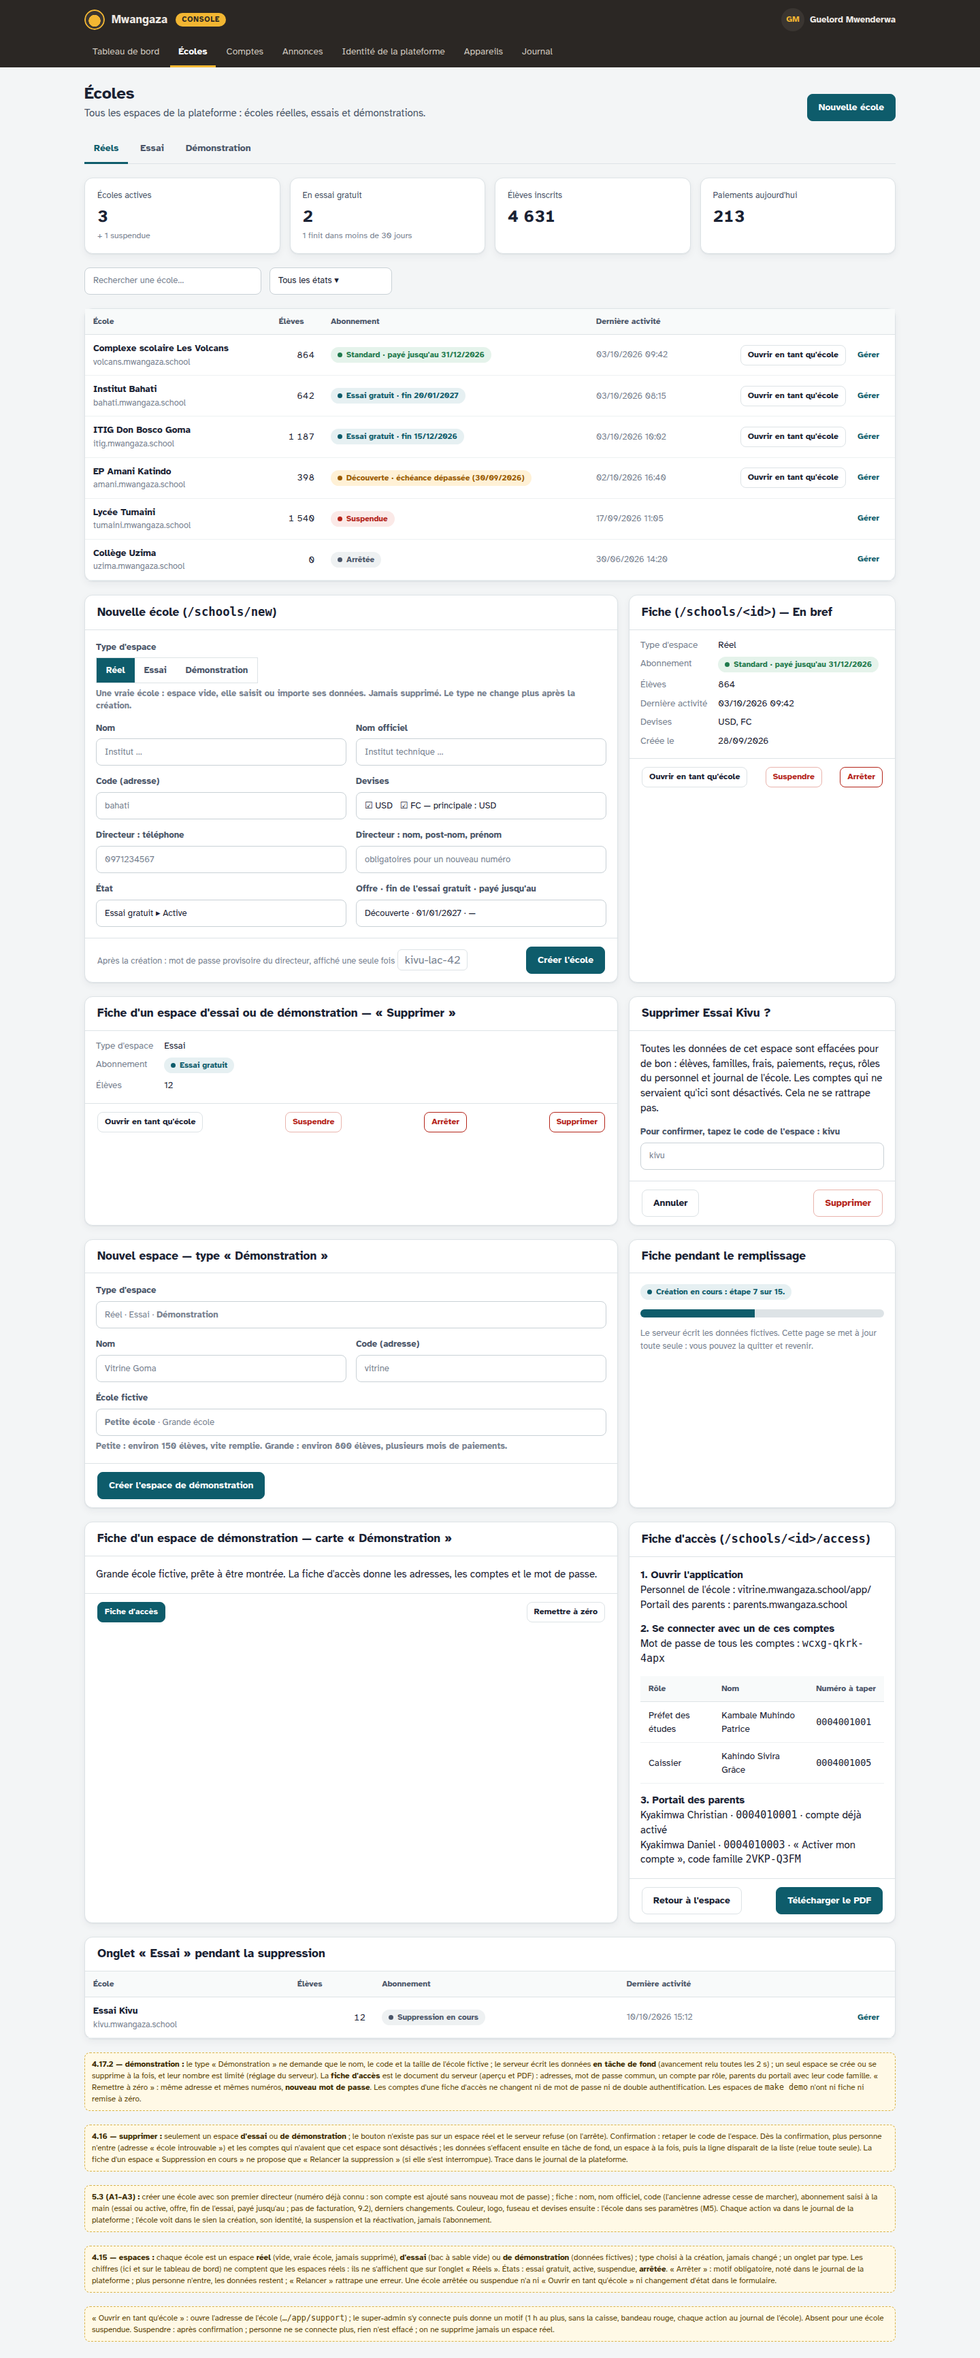
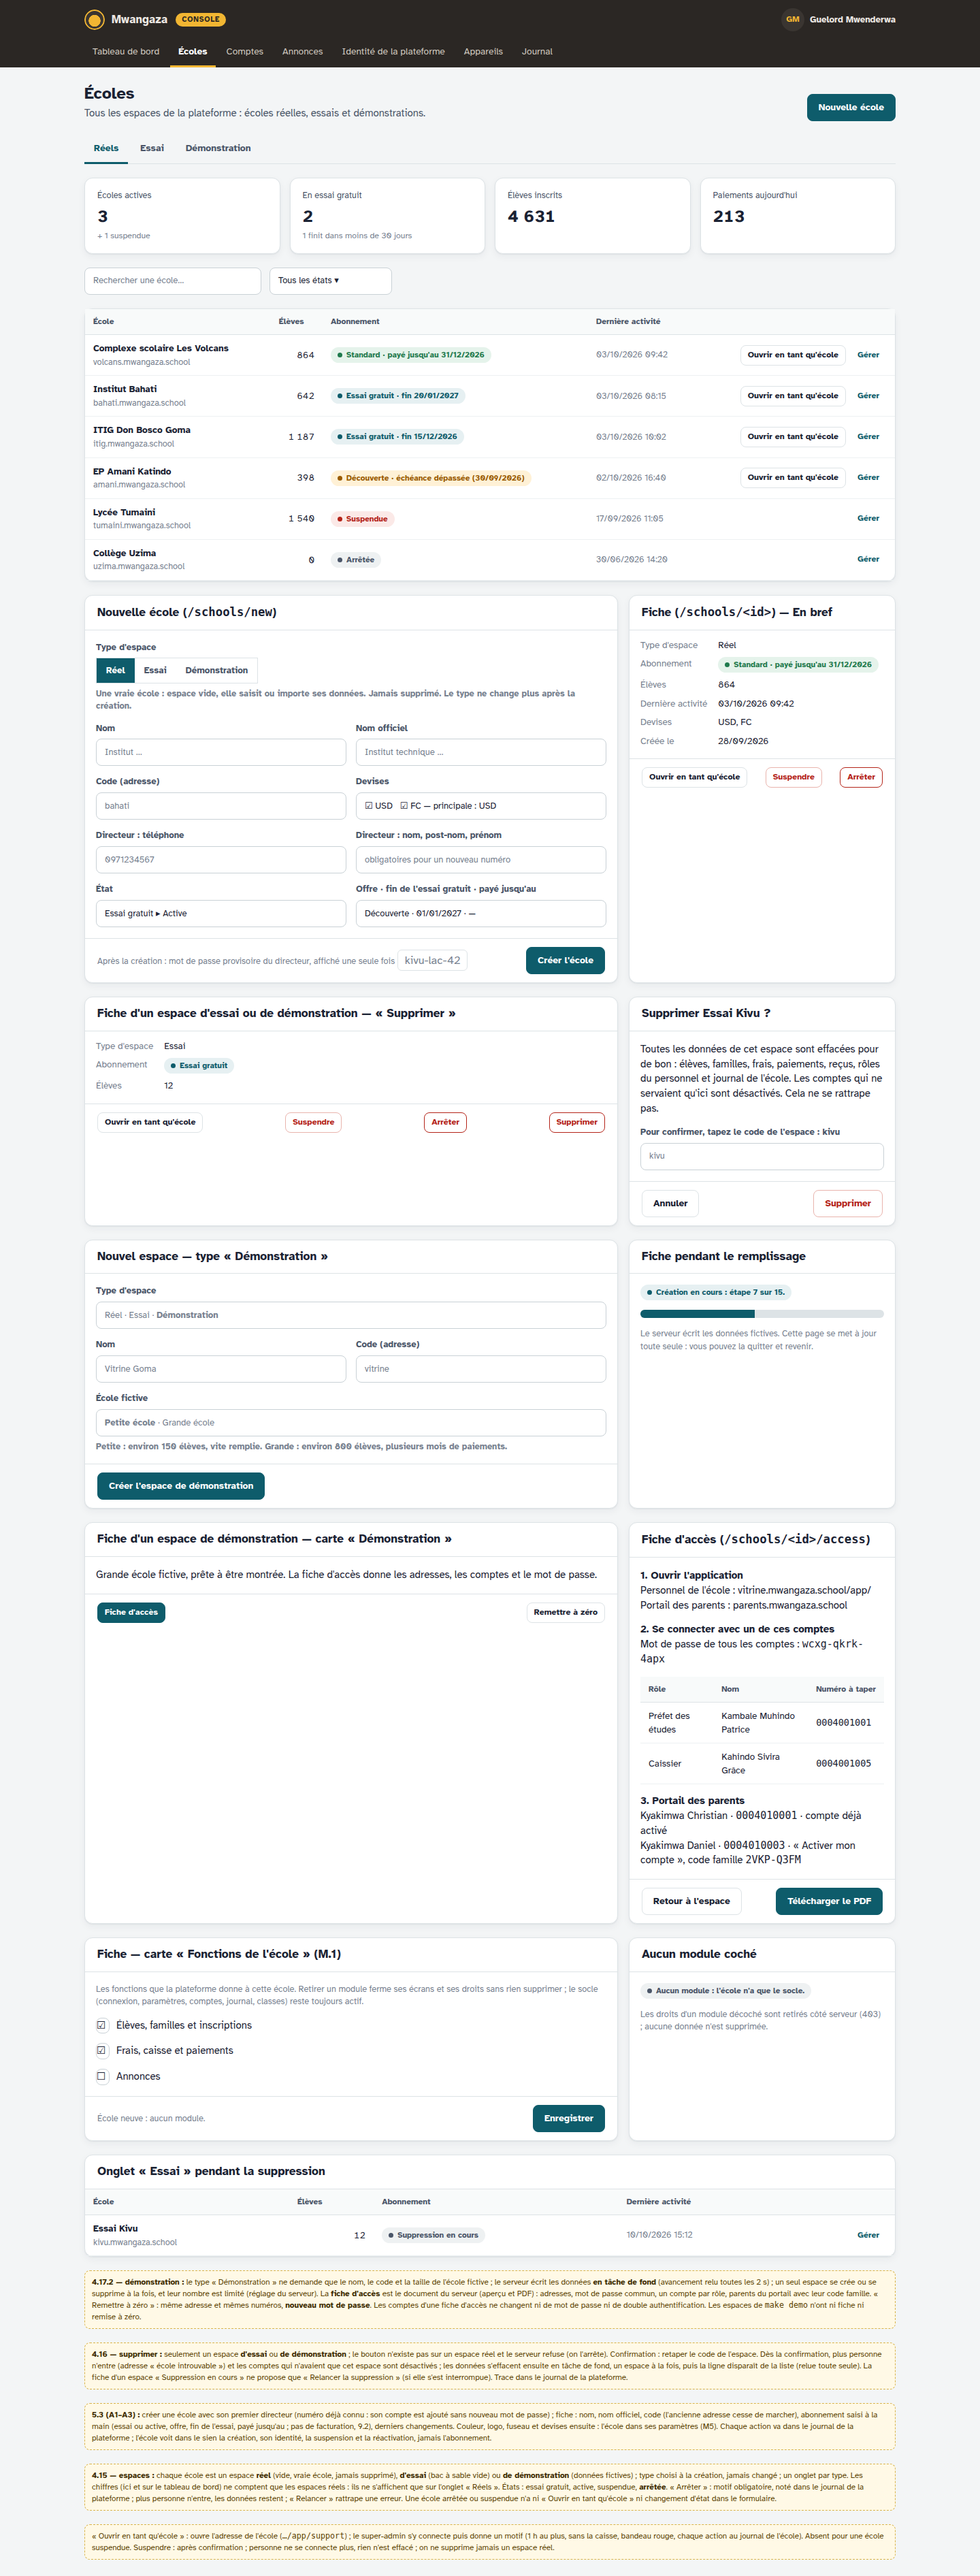
docs(maquettes): carte « Fonctions de l'école » dessinée, règle maquette mobile et bureau dans la skill ecran

diff --git a/maquettes/console/ecoles.html b/maquettes/console/ecoles.html
@@ -122,6 +122,19 @@ dl.brief{display:grid;grid-template-columns:auto 1fr;gap:8px 16px;padding:12px 1
       </div>
       <div class="ft"><a class="btn" href="#">Retour à l'espace</a><a class="btn primary" href="#">Télécharger le PDF</a></div></div>
   </div>
+  <div class="two">
+    <div class="card"><div class="hd"><h2>Fiche — carte « Fonctions de l'école » (M.1)</h2></div>
+      <div class="form" style="grid-template-columns:1fr">
+        <p style="margin:0" class="small muted">Les fonctions que la plateforme donne à cette école. Retirer un module ferme ses écrans et ses droits sans rien supprimer ; le socle (connexion, paramètres, comptes, journal, classes) reste toujours actif.</p>
+        <label class="row" style="gap:10px;align-items:center"><span class="inp" style="width:20px;min-height:20px;padding:0;text-align:center">☑</span><span>Élèves, familles et inscriptions</span></label>
+        <label class="row" style="gap:10px;align-items:center"><span class="inp" style="width:20px;min-height:20px;padding:0;text-align:center">☑</span><span>Frais, caisse et paiements</span></label>
+        <label class="row" style="gap:10px;align-items:center"><span class="inp" style="width:20px;min-height:20px;padding:0;text-align:center">☐</span><span>Annonces</span></label>
+      </div>
+      <div class="ft"><span class="small muted">École neuve : aucun module.</span><a class="btn primary" href="#">Enregistrer</a></div></div>
+    <div class="card"><div class="hd"><h2>Aucun module coché</h2></div>
+      <div class="form" style="grid-template-columns:1fr"><p style="margin:0"><span class="pill gray">Aucun module : l'école n'a que le socle.</span></p>
+        <p class="small muted" style="margin:0">Les droits d'un module décoché sont retirés côté serveur (403) ; aucune donnée n'est supprimée.</p></div></div>
+  </div>
   <div class="card"><div class="hd"><h2>Onglet « Essai » pendant la suppression</h2></div>
     <div class="tblwrap"><table class="tbl"><thead><tr><th>École</th><th class="num">Élèves</th><th>Abonnement</th><th>Dernière activité</th><th></th></tr></thead><tbody>
       <tr><td><b>Essai Kivu</b><br><span class="small muted">kivu.mwangaza.school</span></td><td class="num">12</td><td><span class="pill gray">Suppression en cours</span></td><td class="small muted">10/10/2026 15:12</td><td><div class="row" style="gap:6px;justify-content:flex-end"><a class="btn sm ghost" href="#">Gérer</a></div></td></tr>

diff --git a/maquettes/README.md b/maquettes/README.md
@@ -118,7 +118,7 @@ Pas de menu latéral comme la Gestion : barre du haut en basalte (marque, pastil
 |---|---|---|---|---|
 | Tableau de bord | `console/tableau-de-bord.html` | V1.1 | 5.2 | dessinée par Claude en 5.2.1 (à valider) ; codée en 5.2.1 (menu réduit au tableau de bord, la santé du serveur en pastille dans l'en-tête de la page au lieu de la barre du haut) |
 | Identité de la plateforme | `console/identite-plateforme.html` | V1.1 | 5.2.2 | dessinée par Claude en 5.2.2 (à valider) ; codée en 5.2.2, sans écart (sur téléphone, l'aperçu et les modifications passent sous le formulaire) |
-| Écoles | `console/ecoles.html` | V1.1 | 5.3 | dessinée par Claude en 5.3 d'après `gestion/superadmin-ecoles` (à valider) ; codée en 5.3 en trois écrans (liste, `/schools/new`, fiche `/schools/<id>`) ; « Créer l'école » donne un mot de passe provisoire affiché une seule fois au lieu d'un lien d'activation (pas de SMS en V1) ; mise à jour en 4.15 (à valider) : onglets Réels · Essai · Démonstration, type d'espace à la création et sur la fiche, état « Arrêtée », « Arrêter » avec motif et « Relancer », filtre par état en liste déroulante (cinq états ne tiennent pas en boutons sur téléphone), chiffres sur l'onglet « Réels » seulement ; mise à jour en 4.16 (à valider) : « Supprimer » sur la fiche d'un espace d'essai ou de démonstration, confirmation en retapant le code, état « Suppression en cours » ; complétée en 4.17.2 (à valider) : formulaire court du type « Démonstration », avancement du remplissage, carte « Démonstration » (fiche d'accès, remettre à zéro) et fiche d'accès `/schools/<id>/access` — codées sans écart ; la fiche d'accès est le document du serveur montré dans la page |
+| Écoles | `console/ecoles.html` | V1.1 | 5.3 | dessinée par Claude en 5.3 d'après `gestion/superadmin-ecoles` (à valider) ; carte « Fonctions de l'école » (modules, M.1) dessinée après coup le 2026-10-13 ; codée en 5.3 en trois écrans (liste, `/schools/new`, fiche `/schools/<id>`) ; « Créer l'école » donne un mot de passe provisoire affiché une seule fois au lieu d'un lien d'activation (pas de SMS en V1) ; mise à jour en 4.15 (à valider) : onglets Réels · Essai · Démonstration, type d'espace à la création et sur la fiche, état « Arrêtée », « Arrêter » avec motif et « Relancer », filtre par état en liste déroulante (cinq états ne tiennent pas en boutons sur téléphone), chiffres sur l'onglet « Réels » seulement ; mise à jour en 4.16 (à valider) : « Supprimer » sur la fiche d'un espace d'essai ou de démonstration, confirmation en retapant le code, état « Suppression en cours » ; complétée en 4.17.2 (à valider) : formulaire court du type « Démonstration », avancement du remplissage, carte « Démonstration » (fiche d'accès, remettre à zéro) et fiche d'accès `/schools/<id>/access` — codées sans écart ; la fiche d'accès est le document du serveur montré dans la page |
 | Comptes | `console/comptes.html` | V1.1 | 5.4.1 | dessinée par Claude en 5.4.1 d'après `console/ecoles` (à valider) ; codée en 5.4.1 en deux écrans (liste `/accounts`, fiche `/accounts/<id>`) ; les familles du portail ont leur propre carte au lieu de partager celle des écoles |
 | Annonces aux écoles (et bandeau, liste dans la Gestion) | `console/annonces.html` | V1.1 | 5.4.3 | dessinée par Claude en 5.4.3 d'après `gestion/annonces` (à valider) ; codée en 5.4.3 : console `/announcements`, Gestion bandeau en haut du contenu et liste `/app/platform-news` (lien en bas du menu) ; pas de bouton « Aperçu » dans la console (le bandeau de la Gestion reprend le titre et la première ligne) ; choix des écoles par une recherche au lieu d'une liste |
 | Appareils | `console/appareils.html` | V1.1 | 5.4.2 | dessinée par Claude en 5.4.2 d'après `console/comptes` (à valider) ; codée en 5.4.2 (`/devices`) ; sans compteur d'appareils sous la liste |

diff --git a/.claude/skills/ecran/SKILL.md b/.claude/skills/ecran/SKILL.md
@@ -46,6 +46,8 @@ Maquettes marquées « à valider » dans `maquettes/README.md` : dessinées par
 
 Écran absent de ce tableau : chercher dans `docs/07-a-fournir.md` § 1 (M1–M20…). S'il n'a pas de maquette, **la dessiner d'abord** dans le même système (`maquettes/<app>/<nom>.html` avec `assets/styles.css` et la coquille de `maquettes/outils/maquettes.py`, encadrés `.note` pour les règles), l'ajouter à `maquettes/README.md` et au catalogue de `maquettes.py` (puis `python3 maquettes/outils/maquettes.py index` et `node maquettes/outils/captures.mjs maquettes/<app>/<nom>.html`, chemin complet depuis la racine), puis **coder avec elle sans attendre l'accord** (décision du 2026-09-29) : la signaler dans « À valider » de la PR, la noter dans `07` § 1.
 
+**Avant d'écrire une page, une carte ou une boîte de dialogue : la maquette existe, pour le téléphone (390 px, app) ET pour le bureau (1440 px, logiciel).** Une carte ajoutée à un écran existant compte : elle se dessine dans la maquette de cet écran. Sans maquette, la dessiner d'abord (ci-dessus), refaire les captures (`node maquettes/outils/captures.mjs` donne bureau et mobile). Après le code, regarder l'écran réel aux deux largeurs (390 et 1440 px) et vérifier : aucun texte, montant, tableau ou bouton ne dépasse de sa carte ni de l'écran (pas de défilement horizontal de la page) ; libellés longs qui passent à la ligne ou se tronquent proprement ; colonnes, étiquettes et valeurs alignées ; montants à droite ; boutons de même hauteur et alignés ; un tableau large défile dans son cadre. Corriger avant de rendre.
+
 Écran d'une version suivante que celle de la tâche en cours (version de chaque tâche : `05`) : **s'arrêter et le signaler**. Les éléments d'une version suivante à l'intérieur d'un écran ne sont pas codés et leurs entrées de menu sont masquées. Les bandeaux de version des maquettes datent de l'ancien découpage (avant le 2026-10-02) : la version qui compte est celle de `05`.
 
 ## 2. Lire la maquette
